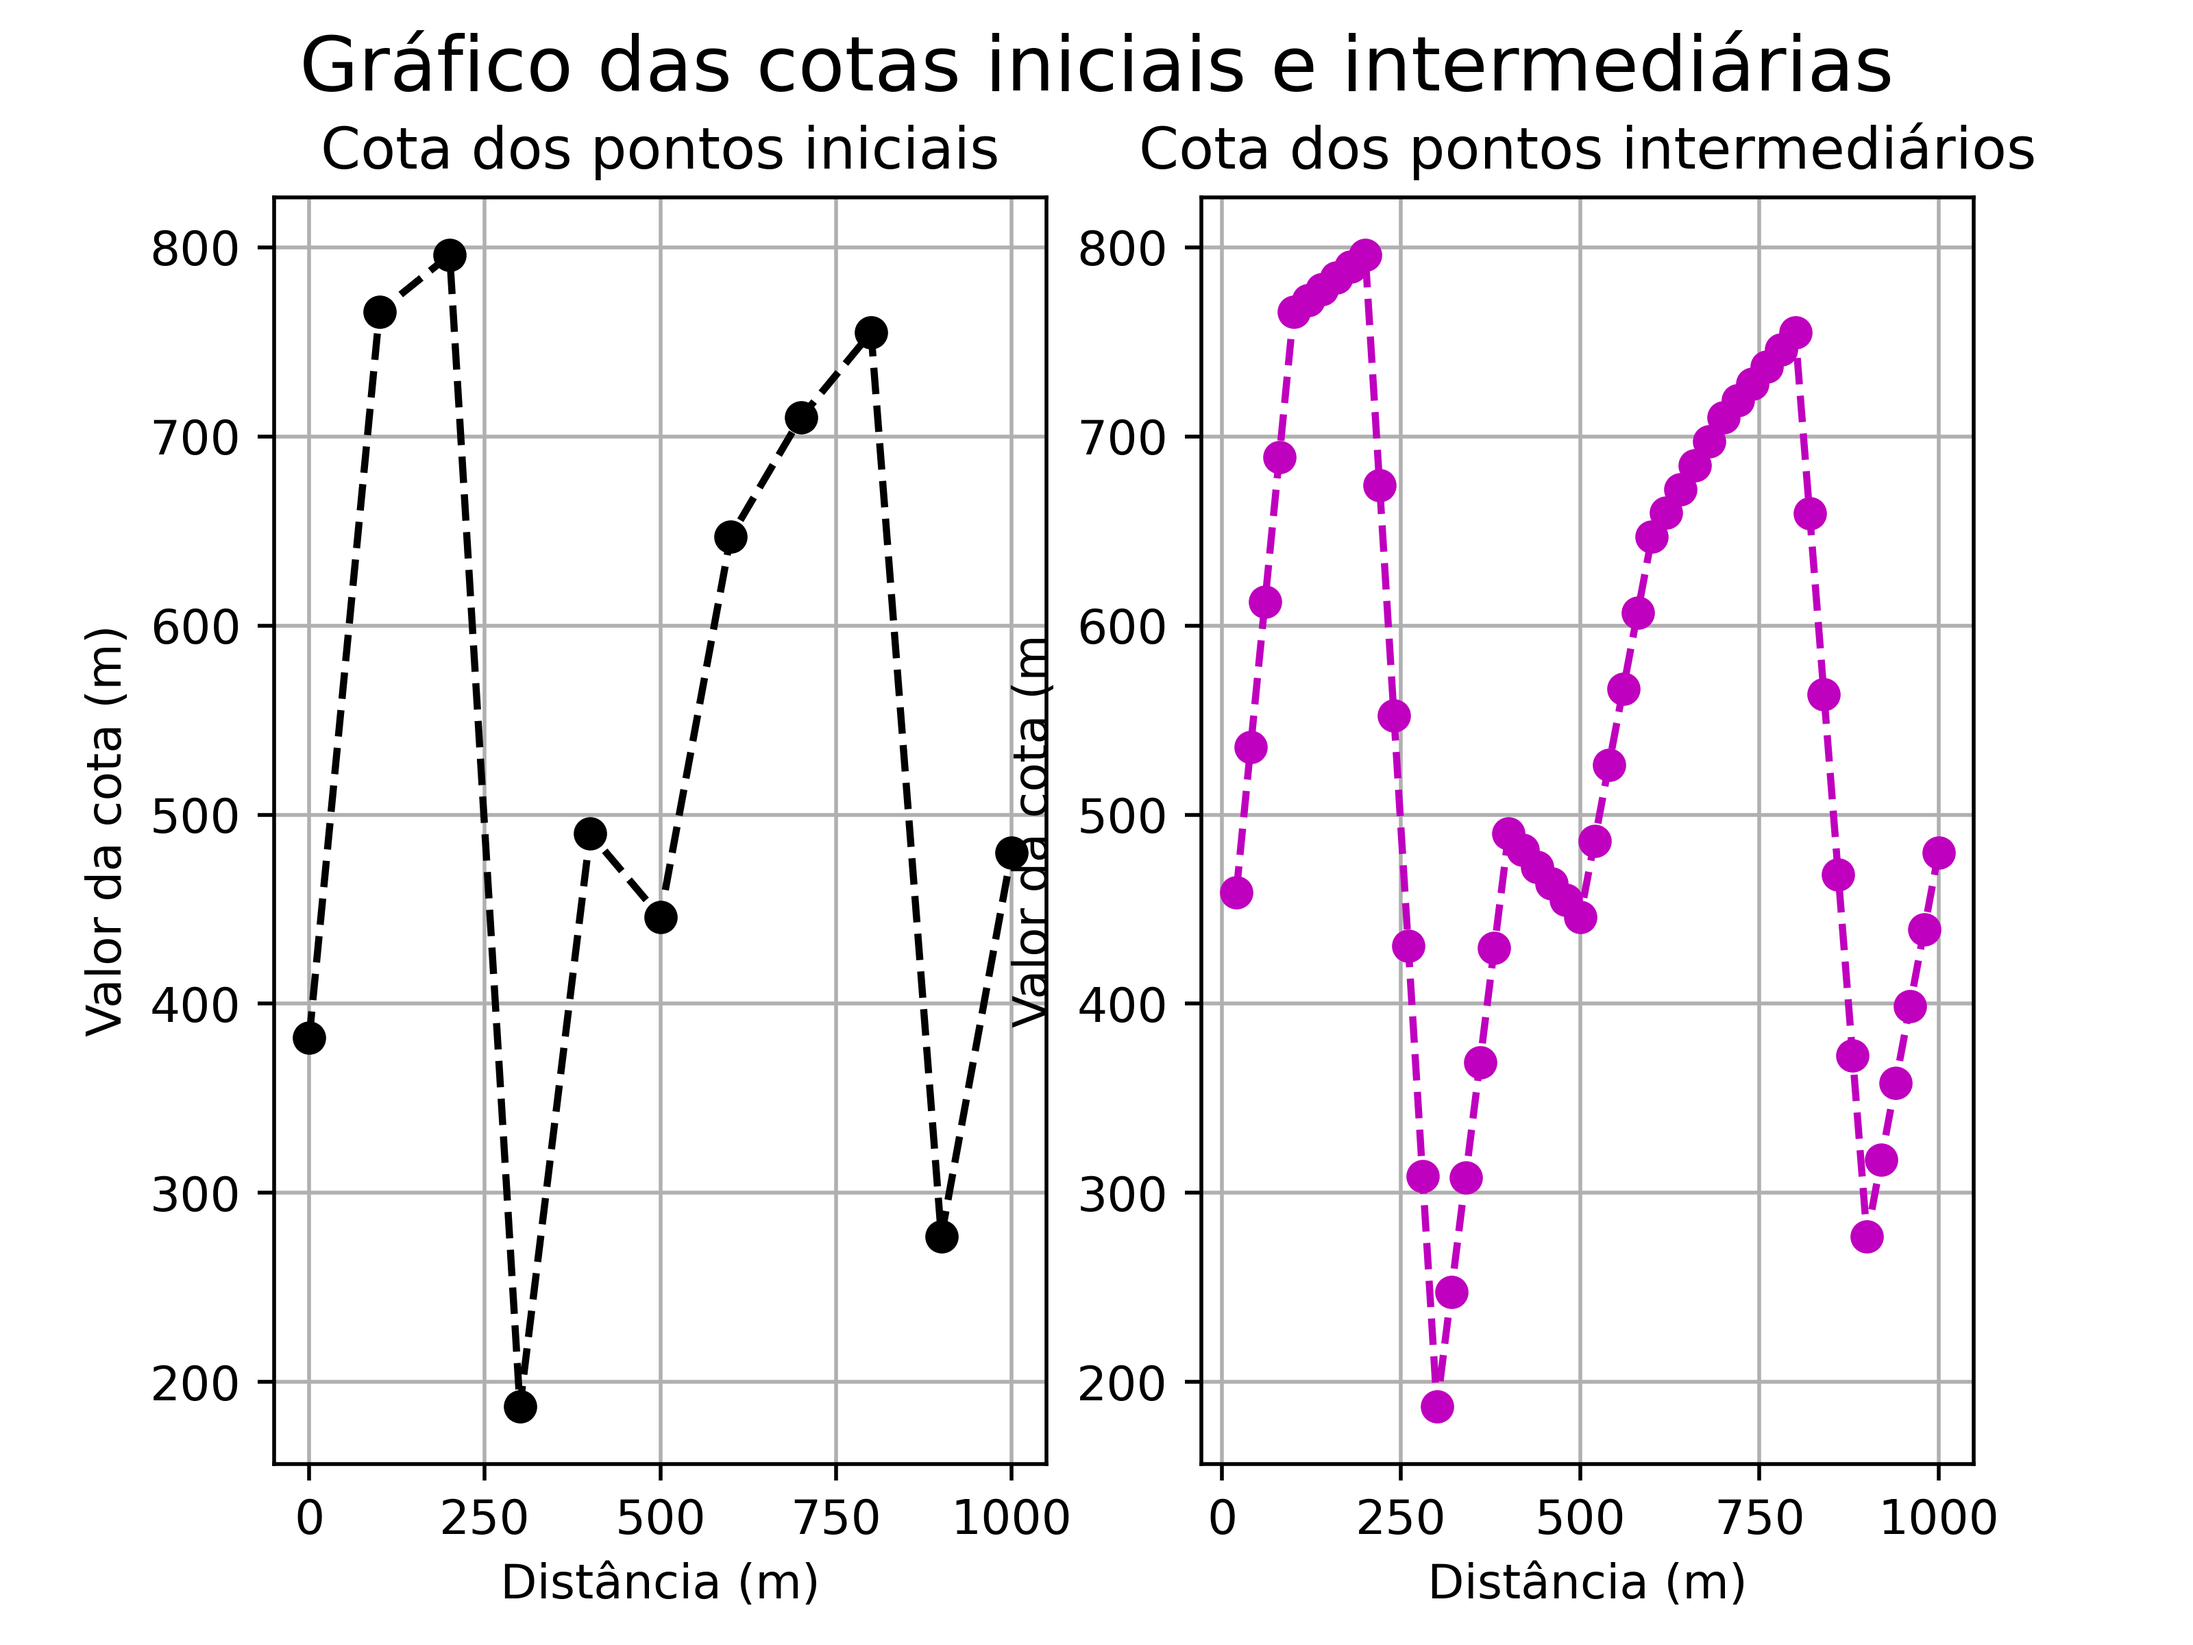
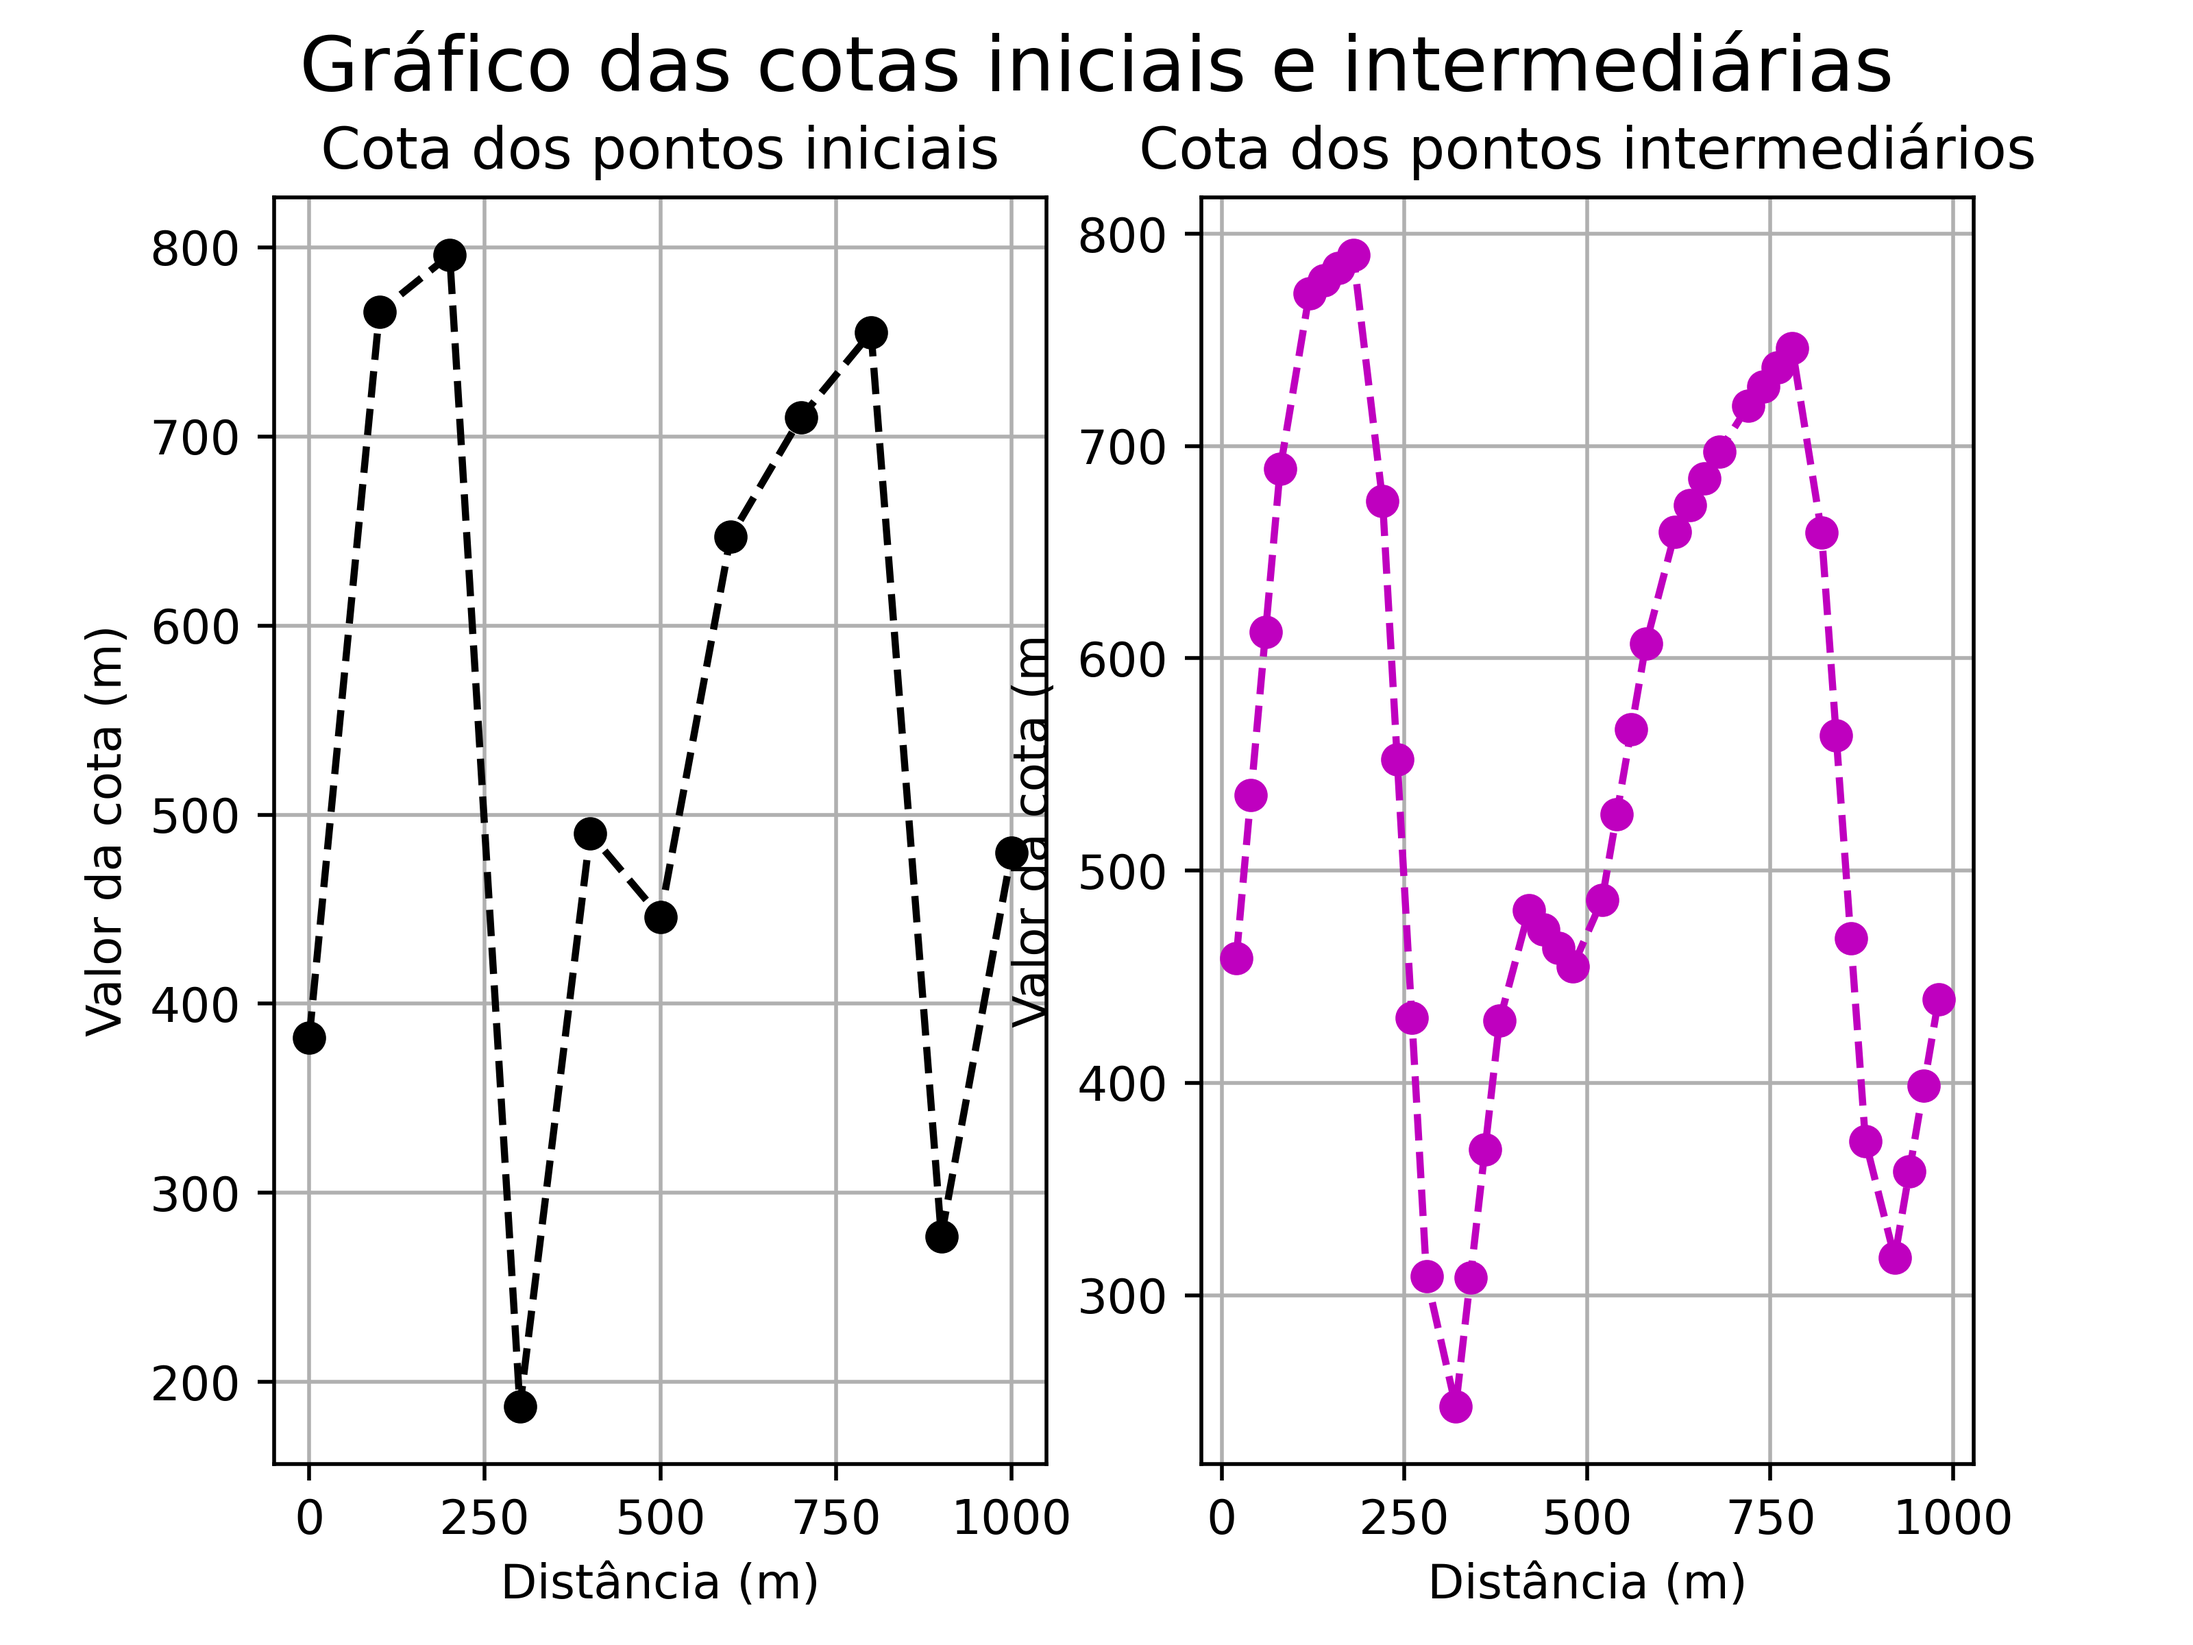
Criar função para salvar arquivo csv.

diff --git a/functions.py b/functions.py
@@ -1,4 +1,5 @@
 import matplotlib.pyplot as plt
+import pandas as pd
 import numpy as np
 
 
@@ -127,13 +128,22 @@ def gen_plot(x, y, x_new, y_new):
     fig.savefig("topographic2", dpi=500)
 
 
+def save_csv(x_new, y_new):
+    # Criação do DataFrame com os resultados
+    df = pd.DataFrame({"NOVA DISTÂNCIA (m)": x_new, "COTA INTERMEDIÁRIA (m)": y_new})
+
+    # Escrita dos resultados em um arquivo csv
+    df.to_csv("resultados.csv", index=False)
+
+
 if __name__ == "__main__":
     datas = read_file("dados.txt")
     _, elevations, distances = get_values(datas)
     spacing = 20
-    option = "topographic"
-    # option = "horizontal"
+    # option = "topographic"
+    option = "horizontal"
 
     # Cálculo das cotas dos pontos intermediários
     x_new, y_new = calculate_cotas(distances, elevations, spacing, option)
     gen_plot(distances, elevations, x_new, y_new)
+    save_csv(x_new, y_new)

diff --git a/test04.py b/test04.py
@@ -1,10 +1,9 @@
 import numpy as np
 import matplotlib.pyplot as plt
 
-lista = list(range(20, 1000,20))
+lista = list(range(20, 1000, 20))
 print(lista)
 
-exit()
 # import pandas as pd
 
 # Dados de entrada
